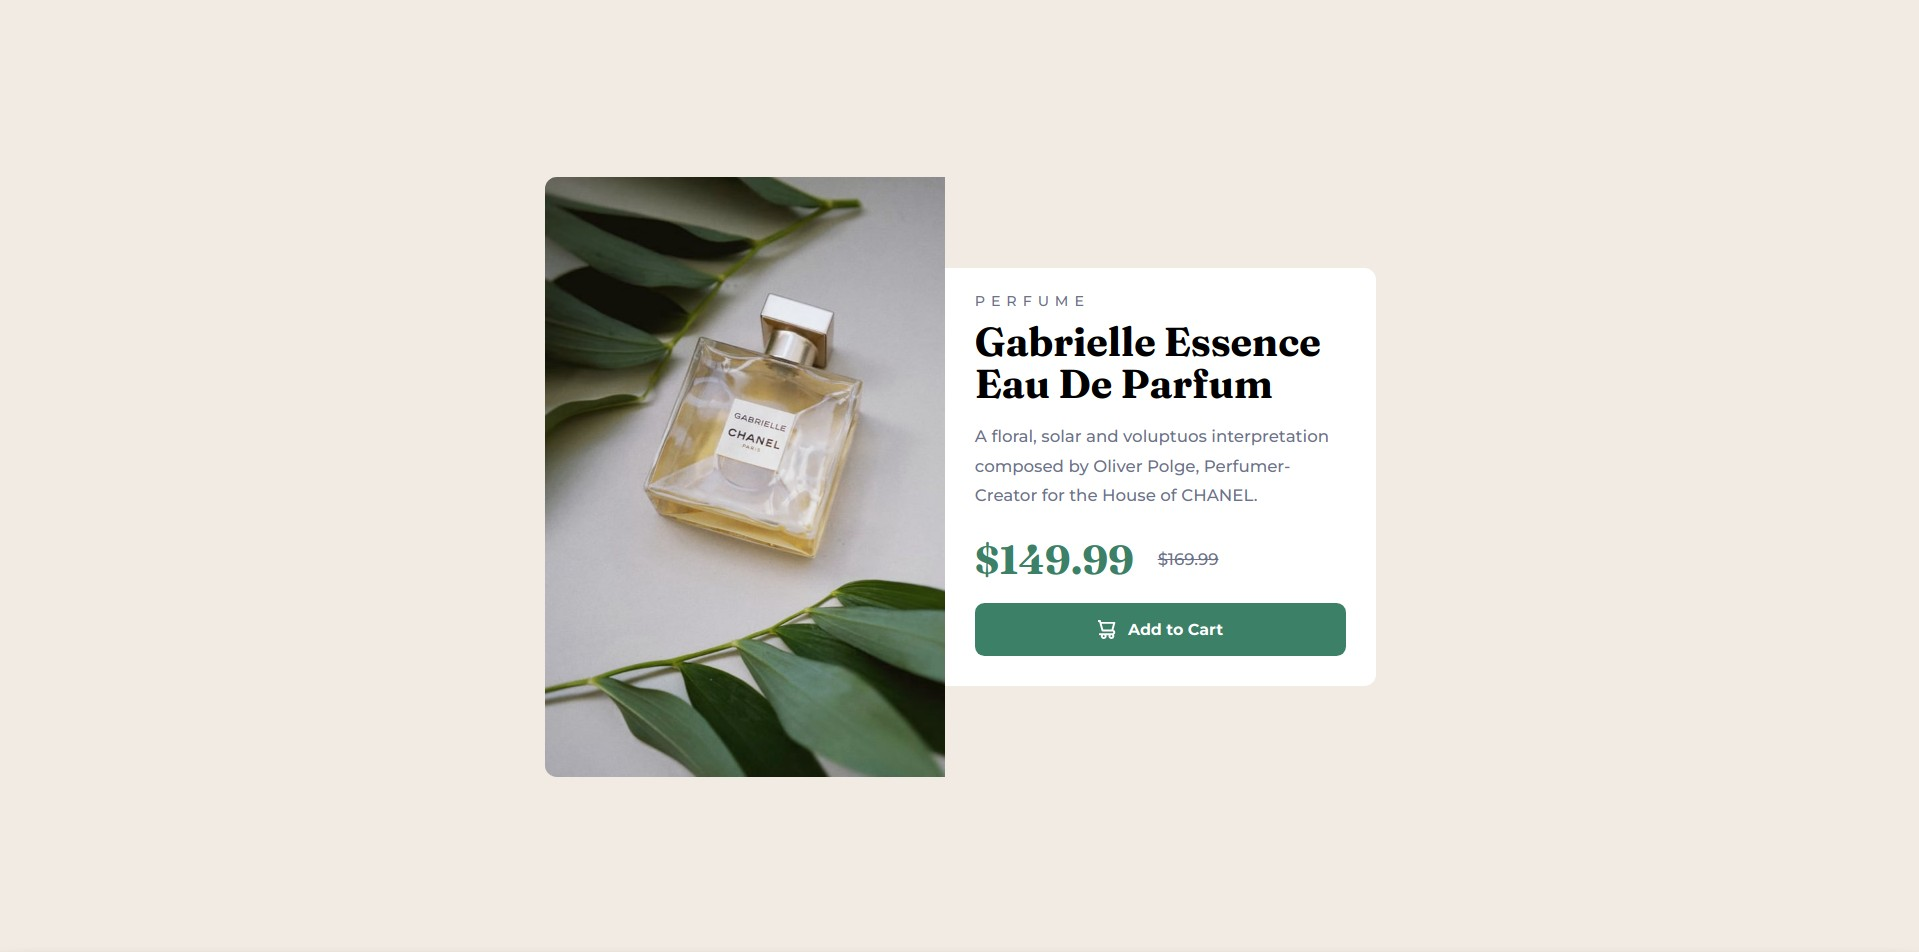
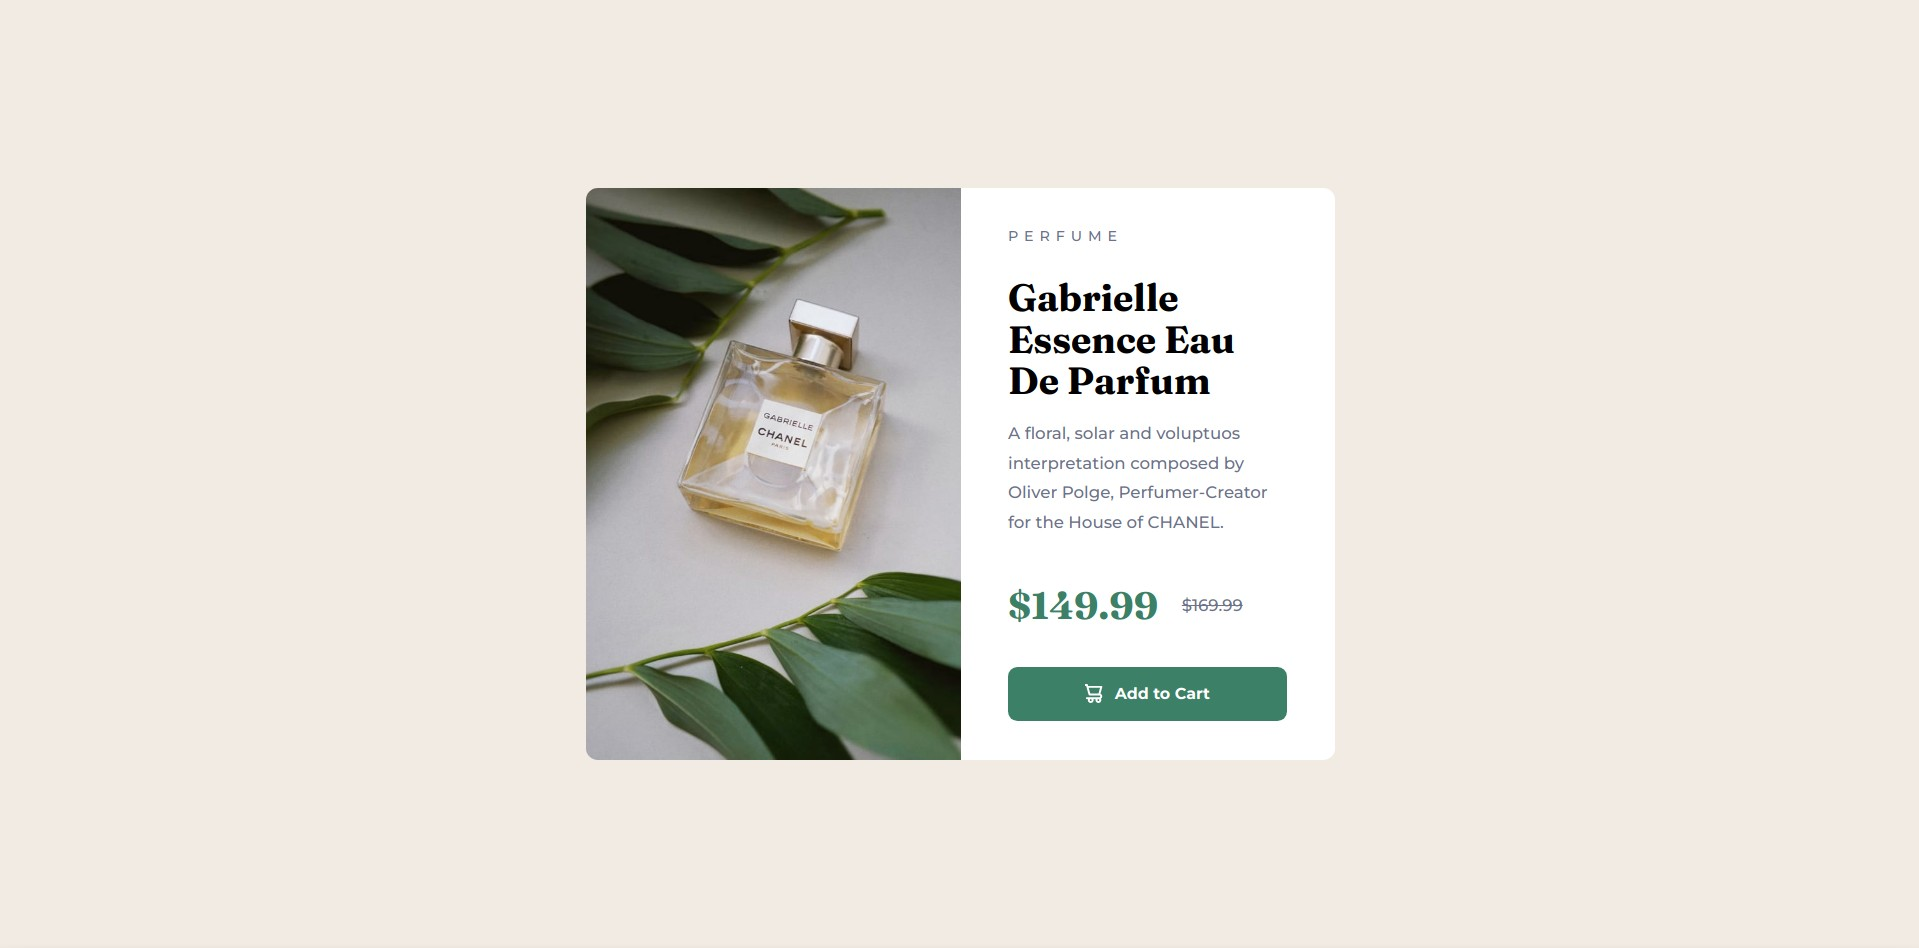
Project Finished

Changed region(s): [[0.2767, 0.1835, 0.7379, 0.8259]]

diff --git a/index.html b/index.html
@@ -1,53 +1,54 @@
 <!DOCTYPE html>
 <html lang="en">
-<head>
-  <meta charset="UTF-8">
-  <meta http-equiv="X-UA-Compatible" content="IE=edge">
-  <meta name="viewport" content="width=device-width, initial-scale=1.0">
-  <link rel="preconnect" href="https://fonts.googleapis.com">
-  <link rel="preconnect" href="https://fonts.gstatic.com" crossorigin>
-  <link href="https://fonts.googleapis.com/css2?family=Montserrat:wght@500;700&display=swap" rel="stylesheet"> 
-  <link href="https://fonts.googleapis.com/css2?family=Fraunces:opsz,wght@9..144,700&display=swap" rel="stylesheet">
-  <link rel="stylesheet" href="./styles.css">
-  <link rel="stylesheet" href="./desktop.css" media="screen and (min-width: 530px)">
-  <title>Product preview card component</title>
-</head>
-<body>
-  <main>
-    <div class="card-component">
+  <head>
+    <meta charset="UTF-8" />
+    <meta http-equiv="X-UA-Compatible" content="IE=edge" />
+    <meta name="viewport" content="width=device-width, initial-scale=1.0" />
+    <link rel="preconnect" href="https://fonts.googleapis.com" />
+    <link rel="preconnect" href="https://fonts.gstatic.com" crossorigin />
+    <link
+      href="https://fonts.googleapis.com/css2?family=Montserrat:wght@500;700&display=swap"
+      rel="stylesheet"
+    />
+    <link
+      href="https://fonts.googleapis.com/css2?family=Fraunces:opsz,wght@9..144,700&display=swap"
+      rel="stylesheet"
+    />
+    <link rel="stylesheet" href="./styles.css" />
+    <link
+      rel="stylesheet"
+      href="./desktop.css"
+      media="screen and (min-width: 530px)"
+    />
+    <title>Product preview card component</title>
+  </head>
+  <body>
+    <div class="container">
+      <div class="card-component">
+        <div class="card-component__image"></div>
 
-      <figure class="image-container">
-        <picture>
-          <source media="(min-width: 530px)" srcset="./images/image-product-desktop.jpg">
-          <img src="./images/image-product-mobile.jpg" class="card-component__image" alt="product image">
-        </picture>
-      </figure>
-      
-      <div class="card-component__product-info">
-        
-        <span>PERFUME</span>
+        <div class="card-component__product-info">
+          <p>PERFUME</p>
 
-        <div class="card-component__product-description">
-          <h1>Gabrielle Essence Eau De Parfum</h1>
-          <p>
-            A floral, solar and voluptuos
-            interpretation composed by Oliver
-            Polge, Perfumer-Creator for the House
-            of CHANEL.
-          </p>
+          <div class="card-component__product-description">
+            <h1>Gabrielle Essence Eau De Parfum</h1>
+            <p>
+              A floral, solar and voluptuos interpretation composed by Oliver
+              Polge, Perfumer-Creator for the House of CHANEL.
+            </p>
+          </div>
+
+          <div class="card-component__price">
+            <h1>$149.99</h1>
+            <p>$169.99</p>
+          </div>
+
+          <button class="card-button">
+            <img src="./images/icon-cart.svg" alt="cart icon" />
+            Add to Cart
+          </button>
         </div>
-        
-        <div class="card-component__price">
-          <h1>$149.99</h1>
-          <p>$169.99</p>
-        </div>
-
-        <button class="card-button">
-          <img src="./images/icon-cart.svg" alt="cart icon">
-          Add to Cart
-        </button>
       </div>
     </div>
-  </main>
-</body>
+  </body>
 </html>

diff --git a/styles.css b/styles.css
@@ -20,43 +20,47 @@ body {
 	font-size: 1.4rem;
 }
 
-main {
-	display: grid;
-	place-items: center;
-	
+.container {
 	width: 100%;
 	height: 100vh;
+
+	display: flex;
+	justify-content: center;
+	align-items: center;
+
 	background-color: var(--cream);
 }
 
 .card-component {
 	width: 92.5%;
-	height: auto;
-	max-width: 700px;
+	height: 100%;
 
-	display: flex;
-	flex-direction: column;
-	align-items: center;
+	max-width: 650px;
+	
+	padding: 1rem 0.5rem 1rem;
 }
 
-.card-component .image-container {
+ .card-component__image {
 	width: 100%;
-	height: auto;
-}
+	height: 40%;
+	background-image: url("./images/image-product-mobile.jpg");
+	background-repeat: no-repeat;
+	background-position: center;
+	background-size: cover;
 
-.card-component .card-component__image {
-	max-width: 100%;
-	max-height: 100%;
-	display: block;
 	border-radius: 1rem 1rem 0 0;
 }
 
 .card-component__product-info {
+	display: flex;
+	flex-direction: column;
+	justify-content: space-evenly;
+
 	font-family: "Montserrat";
 	color: var(--dark-grayish-blue);
 
 	width: 100%;
-	height: auto;
+	height: 60%;
 	
 	background-color: var(--white);
 	
@@ -64,11 +68,8 @@ main {
 	border-radius: 0 0 1rem 1rem;
 }
 
-.card-component__product-info span {
-	display: block;
-
+.card-component__product-info p:nth-child(1) {
 	letter-spacing: 0.5rem;
-
 	font-size: 1.2rem;
 
 	margin-bottom: 1rem;
@@ -82,7 +83,7 @@ main {
 .card-component__product-description h1 {
 	font-family: "Fraunces";
 	font-weight: bold;
-	font-size: 3.4rem;
+	font-size: 3.2rem;
 
 	line-height: 3.5rem;
 
@@ -105,7 +106,7 @@ main {
 .card-component__price h1 {
 	font-family: "Fraunces";
 	font-weight: bold;
-	font-size: 3.4rem;
+	font-size: 3.2rem;
 
 	color: var(--dark-cyan);
 	margin-right: 2rem;
@@ -114,6 +115,7 @@ main {
 .card-component__price p {
 	text-decoration: line-through;
 }
+
 
 .card-button {
 	width: 100%;

diff --git a/desktop.css b/desktop.css
@@ -1,16 +1,34 @@
 .card-component {
-    flex-direction: row;
+    display: flex;
+
+    width: 100%;
+    height: 62.5%;
+
+    padding: 1rem;
 }
 
-.card-component .card-component__image {
+.card-component__image {
+    width: 50%;
+    height: 100%;
+
+    background-image: url("./images/image-product-desktop.jpg");
+
     border-radius: 1rem 0 0 1rem;
 }
 
-.card-component__product-info{
-    display: flex;
-    flex-direction: column;
-    justify-content: space-around;
-  
-    border-radius: 0 1rem 1rem 0;
+.card-component__product-info {
+    width: 50%;
     height: 100%;
+    border-radius: 0 1rem 1rem 0;
+    
+    justify-content: space-around;
+    padding: 2.5rem 4rem;
+}
+
+.card-component__product-info p:nth-child(1){
+    margin-top: 0;
+}
+
+.card-button {
+    margin-bottom: 0;
 }

diff --git a/README.md b/README.md
@@ -1,6 +1,6 @@
 # Frontend Mentor - Product preview card component attempt
 
-This is my attempt to the [Product preview card component challenge on Frontend Mentor](https://www.frontendmentor.io/challenges/product-preview-card-component-GO7UmttRfa). This website has a lot of challenges to practice Frontend, check it out.
+This is my solution to the [Product preview card component challenge on Frontend Mentor](https://www.frontendmentor.io/challenges/product-preview-card-component-GO7UmttRfa). This website has a lot of challenges to practice Frontend, check it out.
 
 If you are seeing this because of **Frontend Mentor**, some help with current issues will be helpful and appreciated, I've recently started to learn Frontend Development.
 
@@ -8,11 +8,10 @@ If you are seeing this because of **Frontend Mentor**, some help with current is
 
 - [Overview](#overview)
   - [Objective](#objective)
-  - [Screenshot](#screenshot)
+  - [Screenshots](#screenshots)
   - [Links](#links)
 - [My process](#my-process)
   - [Built with](#built-with)
-  - [Current main issue](#current-main-issue)
   - [Useful resources](#useful-resources)
 - [Author](#author)
 - [Acknowledgments](#acknowledgments)
@@ -21,16 +20,16 @@ If you are seeing this because of **Frontend Mentor**, some help with current is
 
 ### Objective
 
-Practicing layout, media queries and responsive design with
+Practicing layout, media queries, and responsive images and design with
 this small project.
 
-### Screenshot
+### Screenshots
 
 ***Desktop Design to be achieved***
 ![Desktop Design to be achieved](./design/desktop-design.jpg)
 
-***My Design with current issues***
-![My Design with current issues](./images/my-design.jpg)
+***My Solution***
+![My Solution](./images/my-design.jpg)
 
 ### Links
 
@@ -42,38 +41,10 @@ this small project.
 ### Built with
 
 - Semantic HTML5 markup
-- CSS following BEM naming convetion
+- CSS following BEM naming convention
 - Flexbox
 - Mobile-first workflow
-
-### Current Main Issue
-
-I've finished mobile version, but im sure they can be improved, so feedback is welcome.
-
-Currently I'm having trouble with the desktop version, how you've seen in the image above, product-info height isn't the same as the image height. I thought that using height: 100% in card-component__product-info should work, but for some reason it doesn't fits card-component's height.
-
-Here are some aditional screenshots and the CSS code desktop version I currently have, please don't forget to check all code in the respository.
-
-![Chrome Dev Tools Example](./images/chrome-dev-tools-image.jpg)
-
-```css
-.card-component {
-    flex-direction: row;
-}
-
-.card-component .card-component__image {
-    border-radius: 1rem 0 0 1rem;
-}
-
-.card-component__product-info{
-    display: flex;
-    flex-direction: column;
-    justify-content: space-around;
-  
-    border-radius: 0 1rem 1rem 0;
-    height: 100%;
-}
-```
+- Responsive design and images
 
 ### Useful resources
 
@@ -87,5 +58,3 @@ Coded by Emiliano Acevedo - Gadgeter
 
 - [My Github repository](https://github.com/EA-Gadgeter)
 - Frontend Mentor - [@EA-Gadgeter](https://www.frontendmentor.io/profile/EA-Gadgeter)
-
-## Acknowledgments
